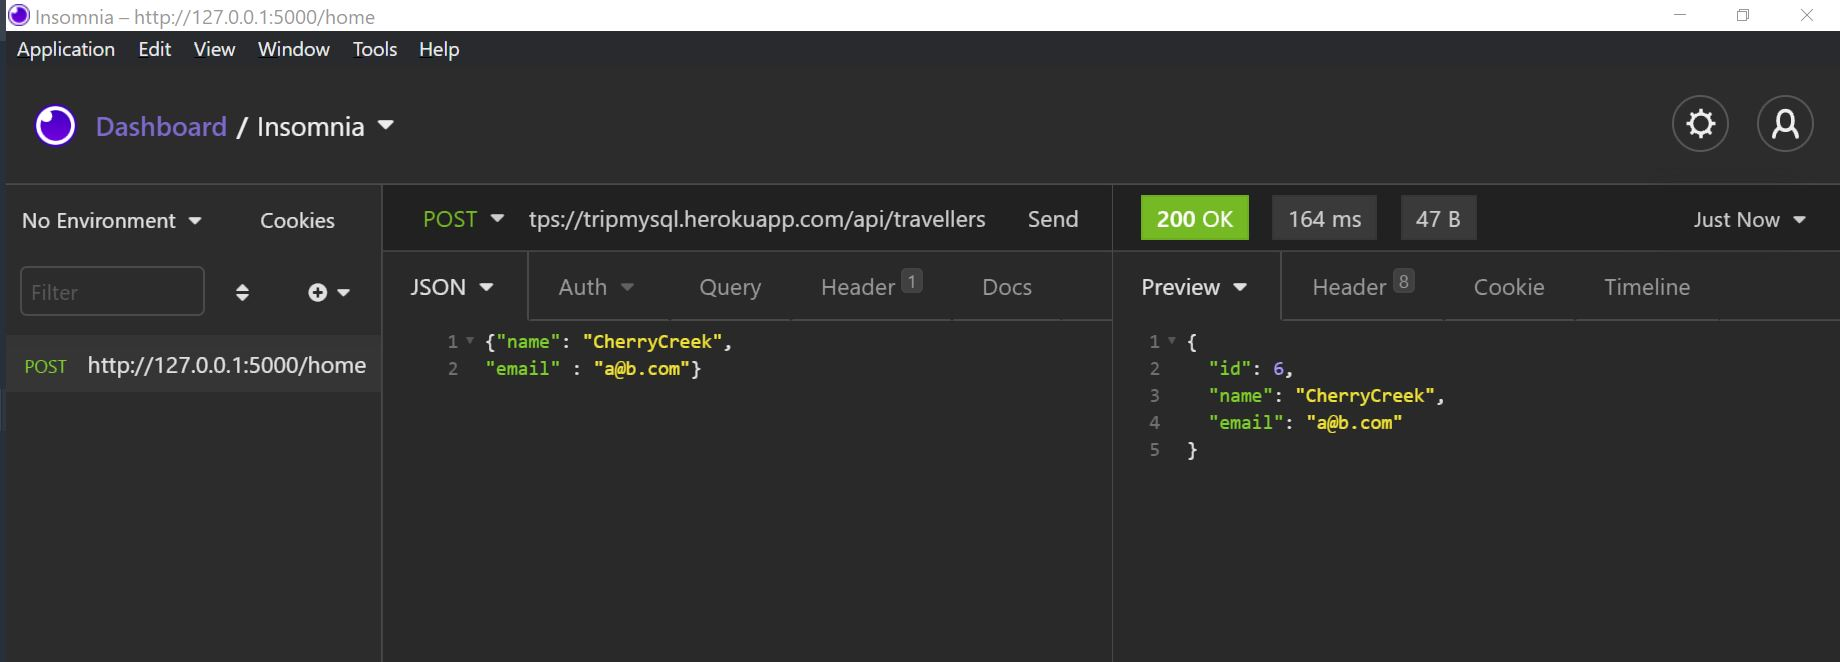
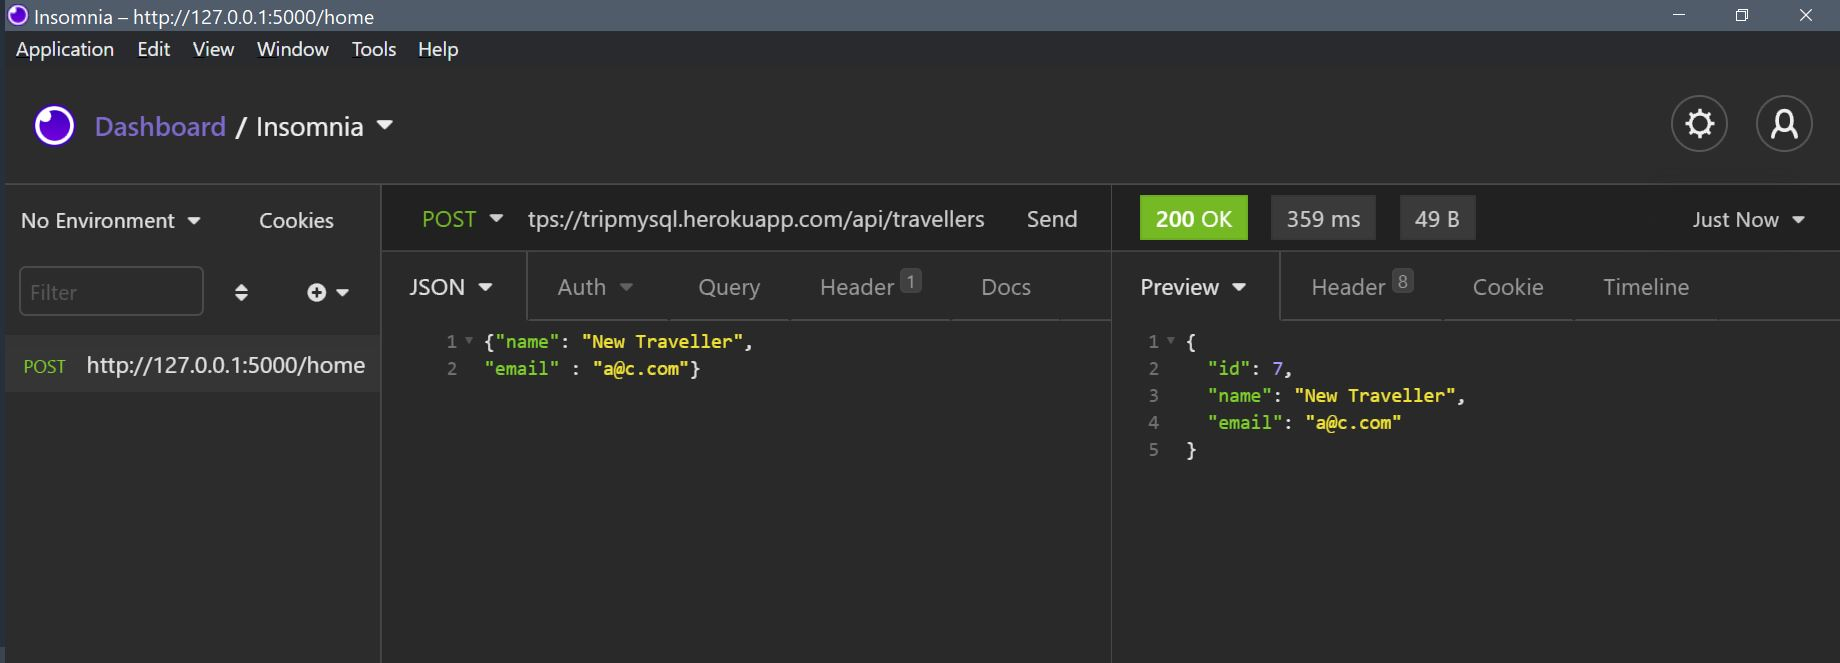
add delete images

diff --git a/README.md b/README.md
@@ -2,8 +2,6 @@
 |---|---|
  ![h](https://raw.githubusercontent.com/attila5287/img_readme/main/all/h.png  "globe") | [tripmysql.herokuapp.com](http://tripmysql.herokuapp.com/)
 
-![][3]
-
 ```
 > Create an account.
 > Create a new trip using a location from a list.
@@ -67,4 +65,34 @@ DELETE  | `/api/trips/:id`| removes a trip and returns a successful response in 
 [2]: https://raw.githubusercontent.com/attila5287/img_readme/main/all/sql-icon.png
 
 [3]: https://raw.githubusercontent.com/attila5287/tripmysql/main/assets/first_response.JPG
+POST methods
+======
+> Insomnia Core to check post methods, captions below:
 
+`/api/locations`
+![post-loc][4]
+`/api/travellers`
+![post-trv][5]
+`/api/trips`
+![post-trip][6]
+
+[4]: https://raw.githubusercontent.com/attila5287/tripmysql/main/assets/post_location.JPG
+
+[5]: https://raw.githubusercontent.com/attila5287/tripmysql/main/assets/post_traveller.JPG
+
+[6]: https://raw.githubusercontent.com/attila5287/tripmysql/main/assets/post_trip.JPG
+
+DELETE methods
+=======
+> Insomnia Core to check delete methods, captions below:
+
+`/api/locations`
+![delete-loc][7]
+`/api/travellers`
+![delete-trv][8]
+`/api/trips`
+![delete-trip][9]
+
+[7]: https://raw.githubusercontent.com/attila5287/tripmysql/main/assets/delete_location.JPG
+[8]: https://raw.githubusercontent.com/attila5287/tripmysql/main/assets/delete_traveller.JPG
+[9]: https://raw.githubusercontent.com/attila5287/tripmysql/main/assets/delete_trip.JPG
